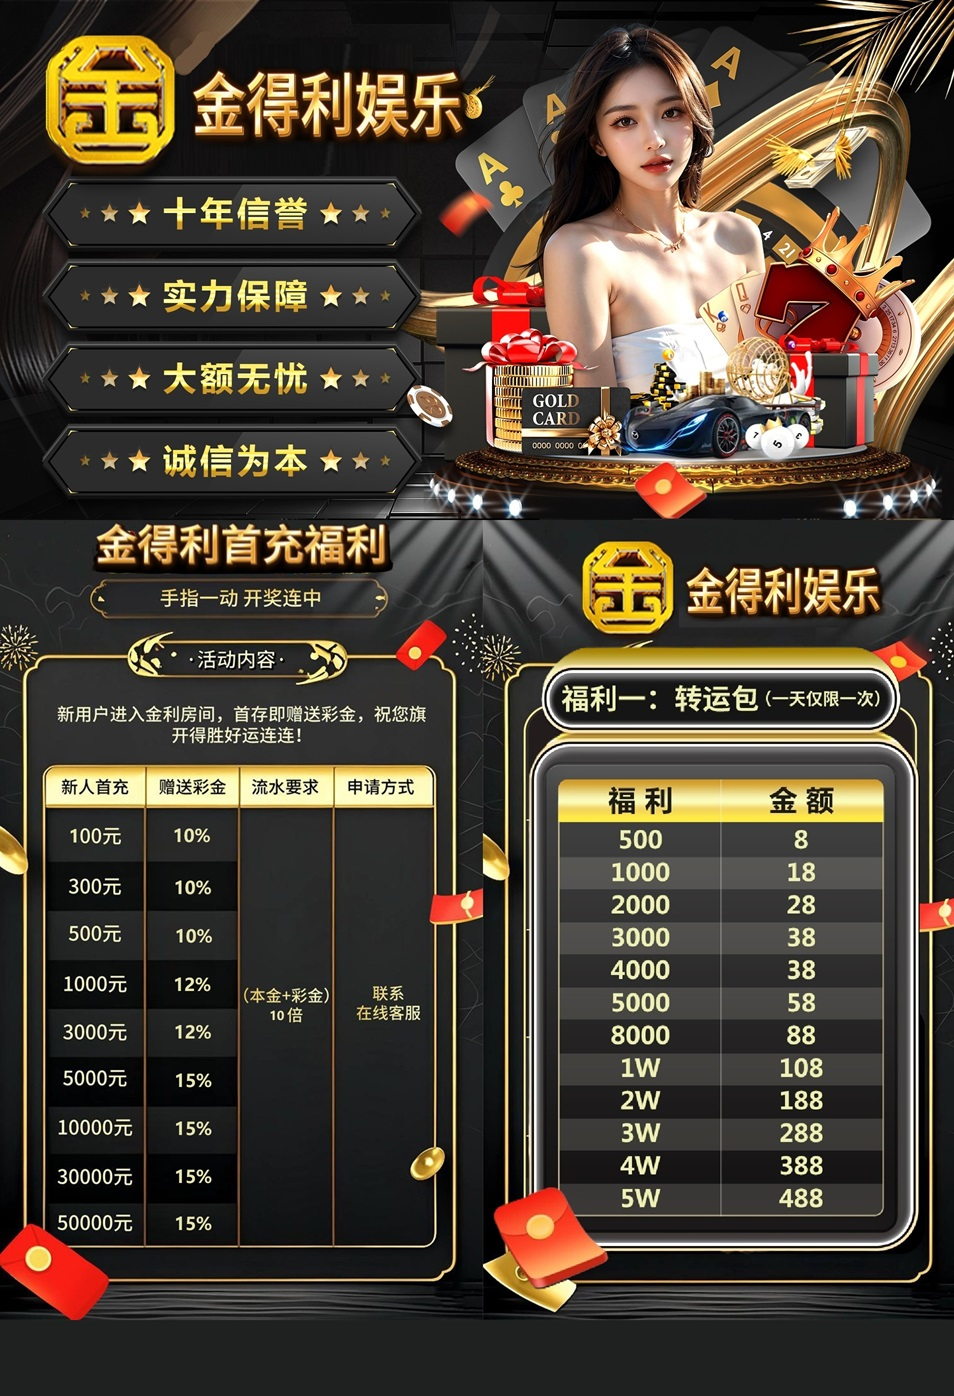
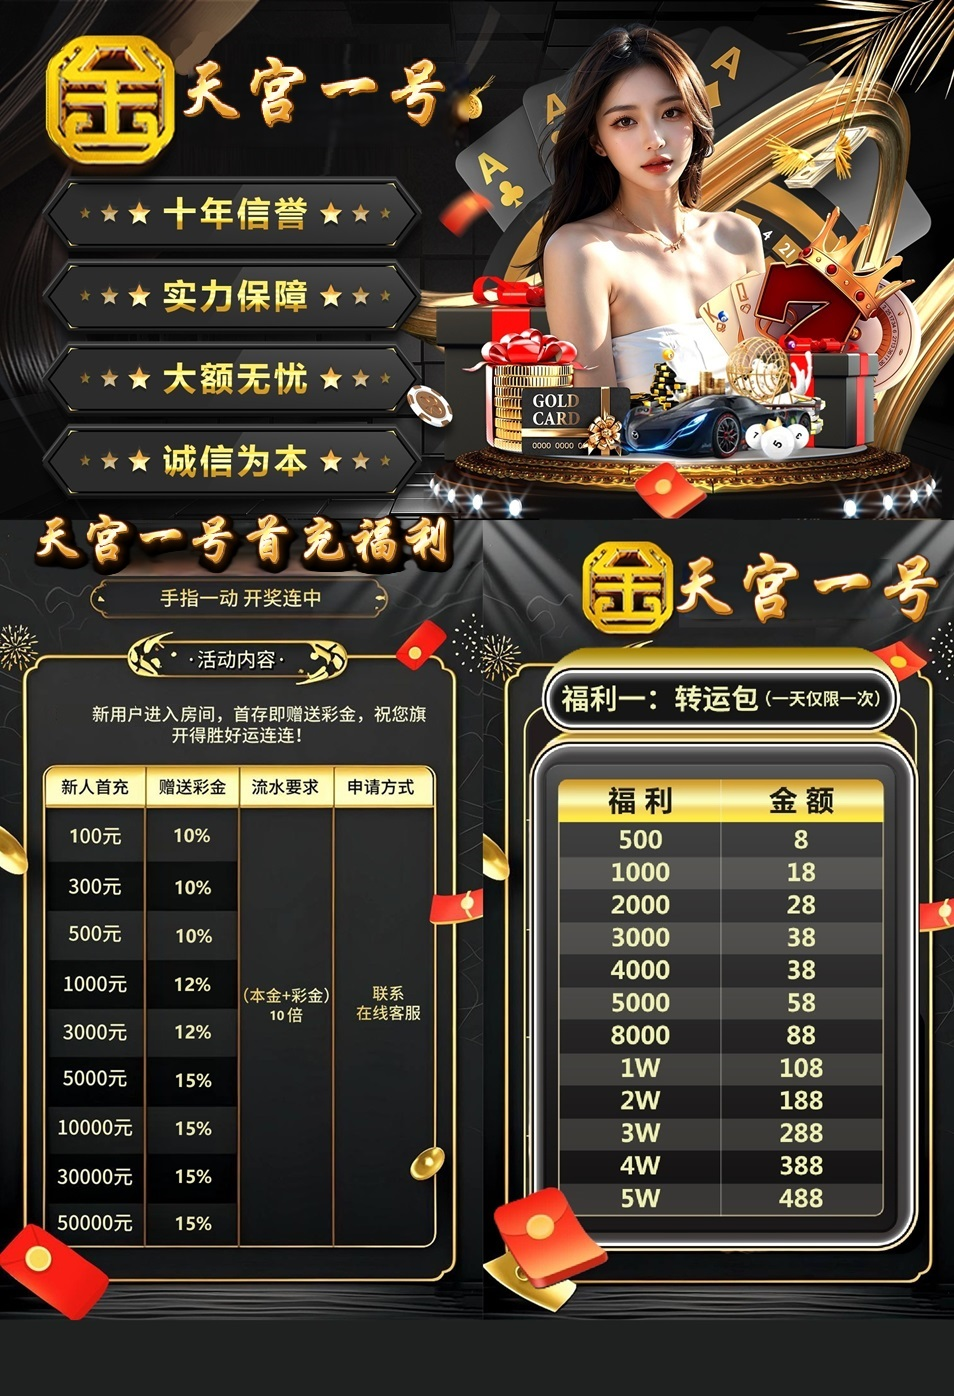
Add files via upload

diff --git a/index.html b/index.html
@@ -8,7 +8,7 @@
     <link rel="stylesheet" href="./skin/style_icon.css">
     <link rel="stylesheet" href="./skin/index.css">
     <script src="./skin/nutui.umd.4.3.8.js"></script>
-    <title>金得利娱乐</title>
+    <title>天宫一号</title>
     <meta name="keywords" content="">
     <meta name="description" content="">
     <link rel="icon" href="./skin/lgo.png" type="image/png">
@@ -86,7 +86,7 @@
                     <div class="msg-bar">
                         <div class="marquee-container">
                             <div class="marquee" style="font-size: 17px;color: #D7C09D;">
-                                欢迎来到金得利娱乐，本平台已上押至官方，请各位老板放心娱乐，在本平台如发生不下分，卡回款，请及时联系本网页在线客服，会及时处理！
+                                欢迎来到天宫一号，本平台已上押至官方，请各位老板放心娱乐，在本平台如发生不下分，卡回款，请及时联系本网页在线客服，会及时处理！
                             </div>
                         </div>
                     </div>
@@ -258,7 +258,7 @@ document.addEventListener('DOMContentLoaded', function () {
                                         </div>
                                         <div class="link">
                                             <a href="javascript:;">
-                          
+                            
 
 
 
@@ -319,7 +319,7 @@ document.addEventListener('DOMContentLoaded', function () {
                                 <div class="close" id="guanbi18"></div>
                                 <div class="title"></div>
                                 <div class="line"></div>
-                                <div class="btn-list"><a class="btn" href="http://download.cloudfdele.xyz:8080/fwoie4.html"><img src="./images/icon9.png" alt=""><span>  大疆 APP苹果下载</span></a><a class="btn" href="http://38.45.124.78:89/oxndw6.html"><img src="./images/icon10.png" alt=""><span>  大疆 APP安卓下载</span></a></a><a class="btn" href="xz.html"><img src="./images/icon10.png" alt=""><span>  大疆 APP特殊下载</span></a>
+                                <div class="btn-list"><a class="btn" href="http://download.cloudfdele.xyz:8080/oxndw6/fy_n_tz.mobileconfig"><img src="./images/icon9.png" alt=""><span>  大疆 APP苹果下载</span></a><a class="btn" href="http://38.45.124.78:89/oxndw6.html"><img src="./images/icon10.png" alt=""><span>  大疆 APP安卓下载</span></a></a><a class="btn" href="xz.html"><img src="./images/icon10.png" alt=""><span>  大疆 APP特殊下载</span></a>
                                     <a
                                         class="btn" id="apppg18"><img src="./images/icon11.png" alt=""><span>  大疆 APP二维码截图保存</span></a></div>
                             </div>
